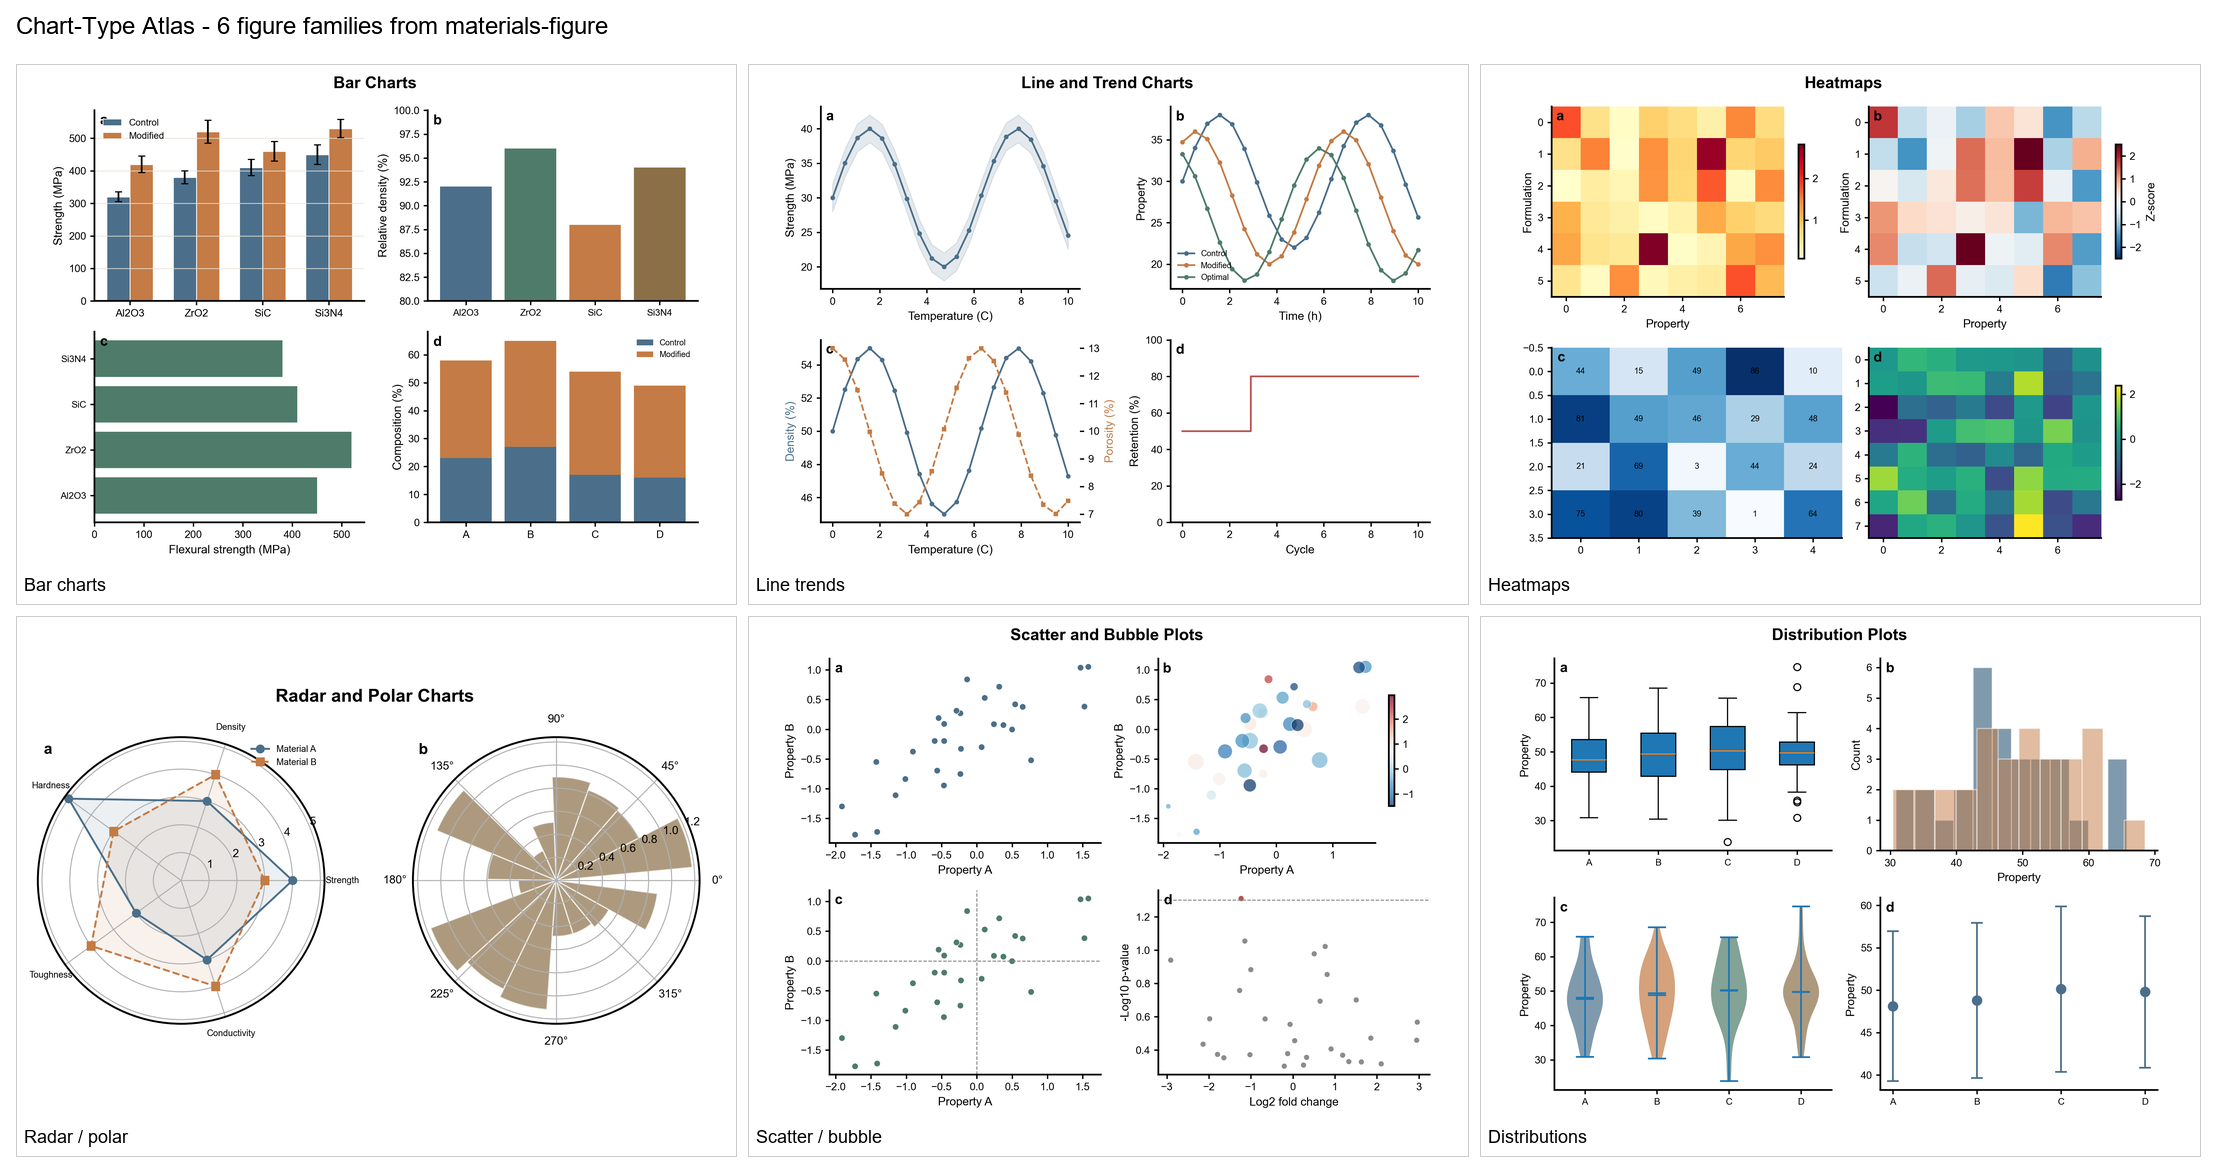
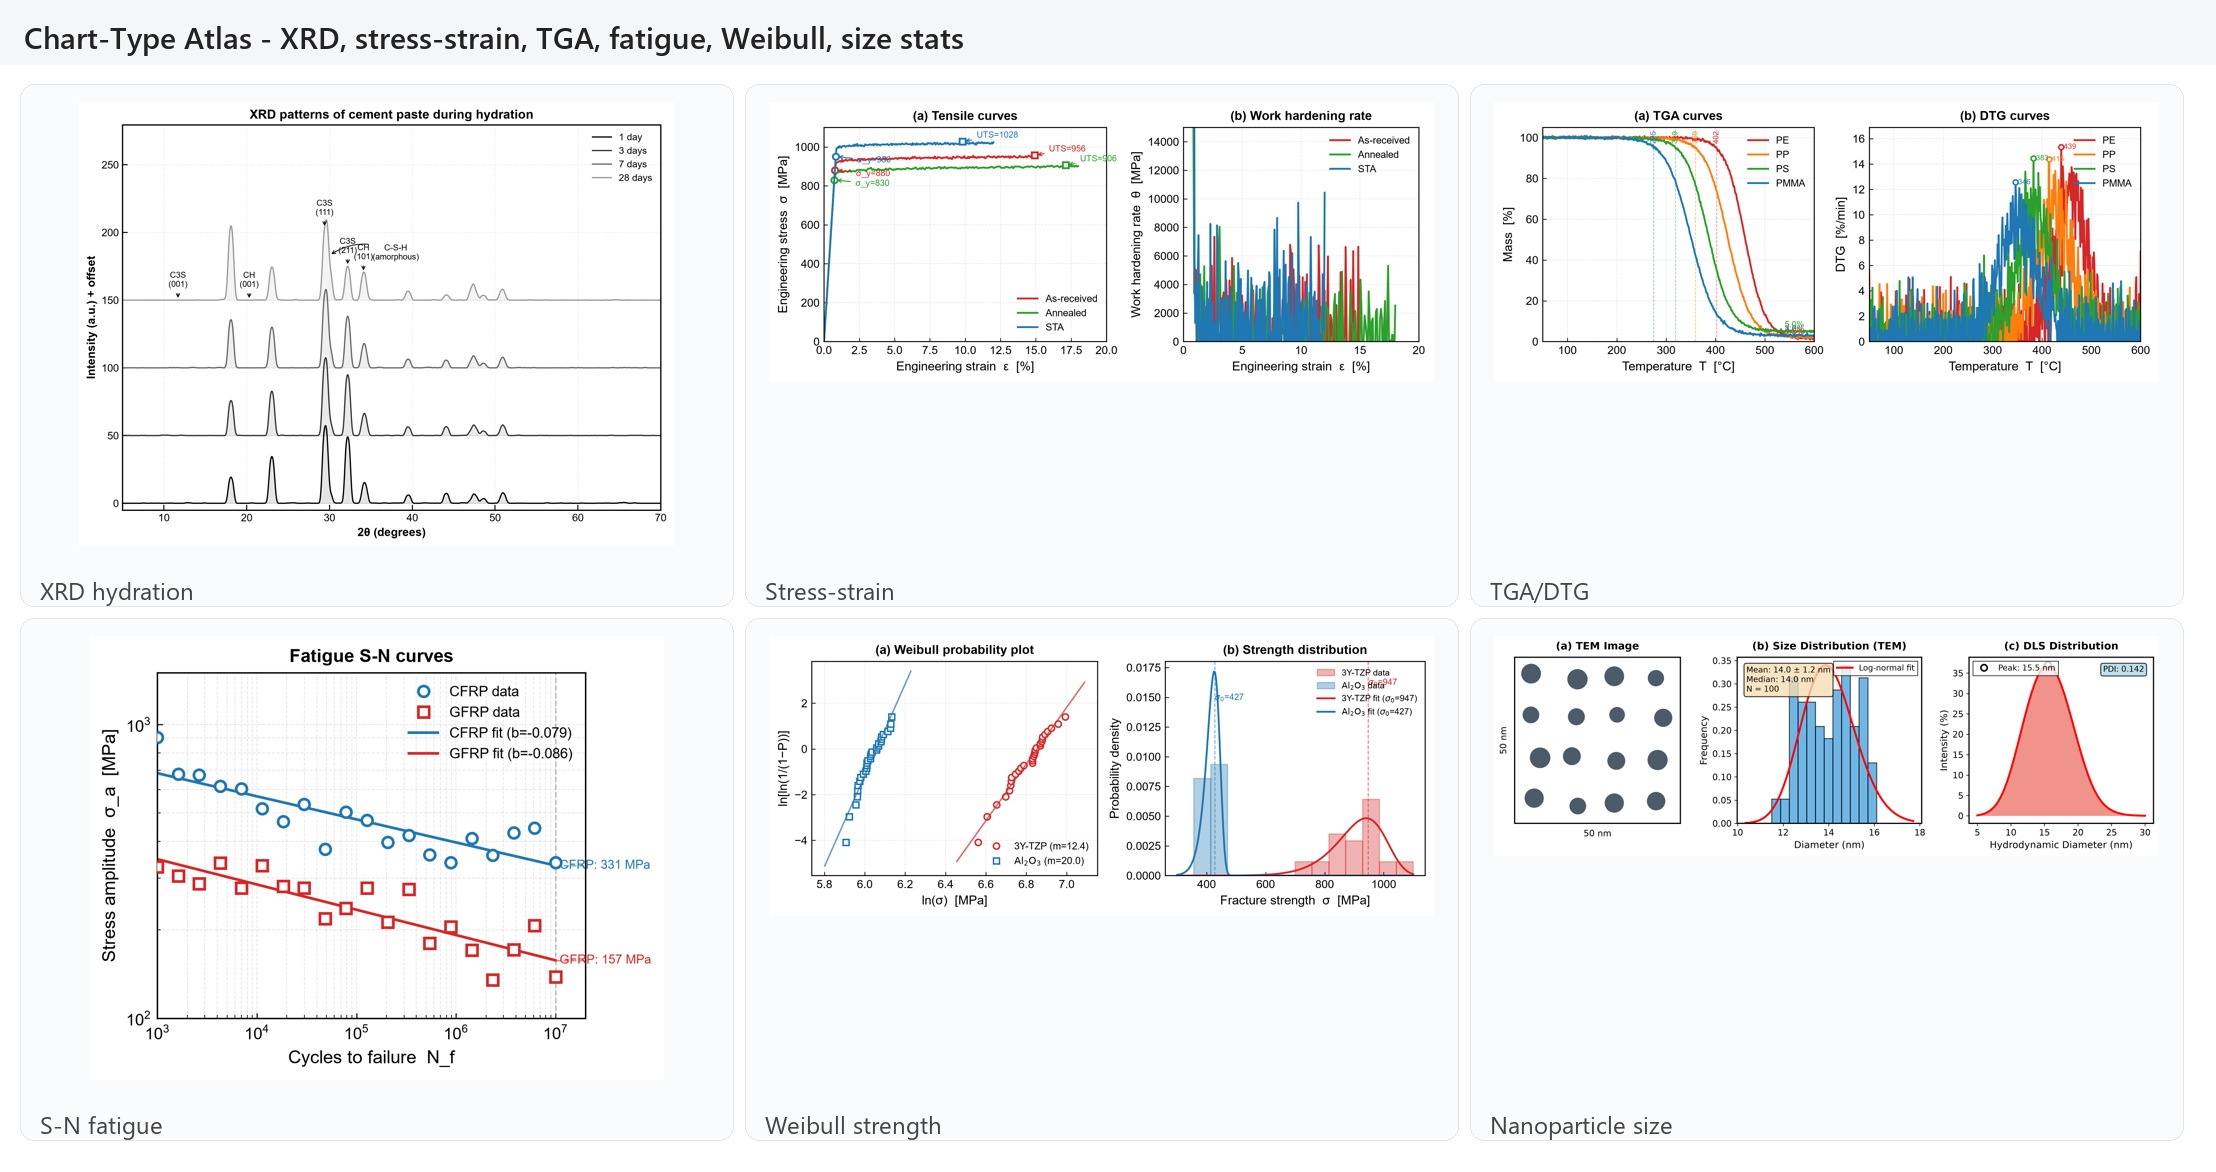
docs: rewrite README, refresh showcases/workflows/skills-index, regenerate gallery boards

diff --git a/README.md b/README.md
@@ -42,13 +42,13 @@ research (router) → reader → citation / literature-pipeline
 | Skill | Status | Purpose | Trigger keywords |
 |---|---|---|---|
 | [`materials-research`](plugins/materials-skills/skills/materials-research/README.md) | Stable | Profile-first router, stage-gated plan, coverage_tier report | "materials research", "topic routing", "workflow plan" |
-| [`materials-reader`](plugins/materials-skills/skills/materials-reader/README.md) | Stable | Source-anchored reader package, evidence-chain matrix | "reader package", "evidence chain", "paper notes" |
+| [`materials-reader`](plugins/materials-skills/skills/materials-reader/README.md) | Stable | Source-anchored reader package, evidence-chain matrix, interactive bilingual HTML reading page | "reader package", "evidence chain", "paper notes", "生成中文版", "全文翻译", "可交互双语网页" |
 | [`materials-citation`](plugins/materials-skills/skills/materials-citation/README.md) | Stable | MCP-backed search, citation matrix, reference-gap audit, reference verification | "citation matrix", "literature screening", "reference gap" |
 | [`materials-literature-pipeline`](plugins/materials-skills/skills/materials-literature-pipeline/README.md) | Beta | Recurring discovery, candidate scoring, source-depth labels, digest handoff | "literature pipeline", "daily digest", "candidate scoring" |
 | [`materials-paper-card`](plugins/materials-skills/skills/materials-paper-card/README.md) | Beta | Source-grounded 16-section deep-reading cards, characterization-chain reading, gated research ideas | "paper card", "deep reading", "深读卡" |
 | [`materials-writing`](plugins/materials-skills/skills/materials-writing/README.md) | Stable | 8-axis stateful manuscript drafting, foundation files, section arcs | "manuscript draft", "review outline", "argument chain" |
 | [`materials-polishing`](plugins/materials-skills/skills/materials-polishing/README.md) | Stable | Claim-strength audit, overclaim reduction, journal-tone tightening | "polish", "claim strength", "academic tone" |
-| [`materials-figure`](plugins/materials-skills/skills/materials-figure/README.md) | Stable | LLM-driven figure contract + plot, representative atlas/gallery samples | "figure", "publication plot", "mechanism map" |
+| [`materials-figure`](plugins/materials-skills/skills/materials-figure/README.md) | Stable | Figure contract + plot; conceptual figures default to R hybrid (AI decoration + R vector), watermark-stripped | "figure", "publication plot", "mechanism map", "机理图", "TOC" |
 | [`materials-data`](plugins/materials-skills/skills/materials-data/README.md) | Stable | FAIR package, 9 domain schemas, data availability statement | "FAIR package", "data availability", "dataset" |
 | [`materials-doe`](plugins/materials-skills/skills/materials-doe/README.md) | Stable | Factorial / Taguchi / mixture matrices, methods paragraph | "DOE", "experiment design", "orthogonal array" |
 | [`materials-statistics`](plugins/materials-skills/skills/materials-statistics/README.md) | Beta | Replicate/n audits, ANOVA/Taguchi/RSM reporting, multiple-comparison fixes, figure-statistics alignment | "statistics review", "p-value", "方差分析", "图注统计" |
@@ -66,11 +66,19 @@ research (router) → reader → citation / literature-pipeline
 - **`materials-figure`** — LLM-driven figure creation: validates a figure
   contract and source-data anchor first, then the LLM writes `plot.py` and
   ships a full package (`figure_contract.md → source_data.csv → plot.py →
-  SVG/PDF/PNG/TIFF → caption.md + qa_report.md`). Python-default backend
-  (R opt-in); a hybrid composition mode that requires a user-provided AI
-  image model (GPT Image 2, nanobanana, …) — AI decorates only, R draws
-  every text/border/arrow/annotation as vector, with a full R/Python
-  fallback (procedural decorations) when no tool is available.
+  SVG/PDF/PNG/TIFF → caption.md + qa_report.md`). Data plots go through the
+  Python-default backend (R opt-in). Conceptual/schematic figures default to
+  **R hybrid composition**: a user-provided AI image model (GPT Image 2,
+  nanobanana, …) generates watermark-free decoration assets only, while R
+  draws every text/border/arrow/annotation as editable vector; a full
+  R/Python fallback (procedural decorations) covers the no-AI-tool case, and
+  a standalone AI draft is produced only on explicit request.
+- **`materials-reader`** — source-grounded deep reading plus a new
+  **interactive bilingual HTML reading page** (1.4.0): for full-paper
+  translation requests it emits a Chinese-first page where every sentence
+  reveals its aligned English source on hover/focus, preserving figures,
+  tables, captions, and section hierarchy — reusing the same source anchors
+  and terminology ledger as the Markdown reader package.
 - **`materials-paper-to-patent`** — 论文转中文发明专利：三轴路由
   （source_format / task_mode / invention_type），内置中国专利法第 22/26.3/
   26.4/31.1/33 条知识库与 7 规则 claim 校验引擎，输出 DOCX 申请稿 +

diff --git a/docs/skills-index.md b/docs/skills-index.md
@@ -54,6 +54,13 @@ defaults for `material_family` and `domain` across all 16 skills.
 - Produces standard reader packages, source-grounded notes, figure/table
   evidence maps, claim-evidence-mechanism-boundary matrices, and handoff rows
   for citation and figure skills. Has its own `evals.json`.
+- **Interactive bilingual HTML reading page** (1.4.0): for full-paper
+  translation requests ("生成中文版", "全文翻译", "可交互双语网页") it emits a
+  Chinese-first page built from `assets/templates/bilingual-reader-template.html`
+  following `references/bilingual-html-reader.md` — sentence-level English-Chinese
+  alignment with hover/focus to reveal the English source, figures/tables/
+  captions/hierarchy preserved. It is an output format of the reader, reusing
+  the same `source_map.json` and terminology ledger, not a separate skill.
 
 ### materials-citation — search, screen, structure
 
@@ -106,13 +113,15 @@ defaults for `material_family` and `domain` across all 16 skills.
 - Pipeline: `figure_contract.md → source_data.csv → LLM writes plot.py →
   figure.svg/pdf/png/tiff → caption.md + qa_report.md + asset_manifest.md`.
 - Key rules: exclusive plotting backend per package (Python default, R
-  opt-in with persisted preference); an OpenRouter/GPT Image 2 AI-schematic
-  route produces provenance-tracked internal drafts (never data panels);
-  a hybrid mode (user-provided AI image model required — GPT Image 2,
-  nanobanana, or self-generated assets) splits layers — AI decoration
-  assets below, all text, borders, arrows, and annotations as R vector
-  above (`asset_manifest.yaml` placement map + text-vector QA); with no
-  AI tool the skill explains and falls back to R/Python-only drawing
+  opt-in with persisted preference) for data plots; **conceptual/schematic
+  figures default to R hybrid composition** (2.6.0) — a user-provided AI
+  image model (GPT Image 2, nanobanana, or self-generated assets) generates
+  watermark-stripped, transparent decoration assets only, while R draws
+  every text, border, arrow, and annotation as editable vector
+  (`asset_manifest.yaml` placement map + text-vector + watermark QA); a
+  standalone AI draft is produced only on explicit request (OpenRouter/GPT
+  Image 2 AI-schematic route, provenance-tracked, never data panels); with
+  no AI tool the skill explains and falls back to R/Python-only drawing
   with procedural decorations; contract written before plotting
   (core conclusion, evidence chain, panel map, target journal,
   statistics/units/scale bars, claim boundary); caption boundaries separate

diff --git a/docs/showcases/bilingual-html-reader.md b/docs/showcases/bilingual-html-reader.md
@@ -1,0 +1,33 @@
+# Bilingual HTML reading page
+
+## Outcome Snapshot
+
+A Chinese-first interactive reading page for a full English paper: every
+Chinese sentence reveals its aligned English source on hover or keyboard
+focus, with figures, tables, captions, and section hierarchy preserved.
+
+## Demo Prompt
+
+```text
+生成这篇英文论文的中文版可交互双语阅读页。
+```
+
+## Proof Assets
+
+- `plugins/materials-skills/skills/materials-reader/assets/templates/bilingual-reader-template.html`
+
+## Build Path
+
+1. `materials-reader` parses the PDF and builds the source map and glossary.
+2. Sentences are aligned one-to-one with stable ids (`s0001`, …).
+3. Each Chinese sentence is wrapped in a `.sentence` span carrying its
+   English source in `data-source`.
+4. The page is composed from `bilingual-reader-template.html`; the tooltip
+   reveals the English source on hover/focus and hides on exit or Esc.
+5. QA verifies no orphan sentence in either direction and intact tables.
+
+## When To Use This Route
+
+Use it for full-paper Chinese reading. It is an output format of
+`materials-reader`, reusing the same `source_map.json` and terminology ledger;
+it does not trigger for abstract-only or partial translation.

diff --git a/docs/showcases/hybrid-mechanism-figure.md b/docs/showcases/hybrid-mechanism-figure.md
@@ -1,0 +1,34 @@
+# Hybrid mechanism figure
+
+## Outcome Snapshot
+
+A publication-grade conceptual/schematic figure produced by the default R
+hybrid route: an AI image model supplies watermark-free decoration assets
+only, while R draws every text, border, arrow, and annotation as editable
+vector.
+
+## Demo Prompt
+
+```text
+Create a mechanism schematic for WER-EA interface bonding using the R hybrid route.
+```
+
+## Proof Assets
+
+- `docs/gallery/gallery_wer_ea_workflow.png`
+
+## Build Path
+
+1. `materials-figure` writes and validates the figure contract first.
+2. R drafts the layout with placeholder rectangles for asset slots.
+3. The AI model generates transparent, watermark-stripped decoration assets
+   (no text/arrows/borders by construction).
+4. R composites the assets below and draws all semantic elements above.
+5. QA checks text-vector selectability, watermark absence, z-order, and
+   palette consistency; the package carries the hybrid disclosure line.
+
+## When To Use This Route
+
+Use it for mechanism maps, interface schematics, graphical abstracts, and TOC
+graphics where editable vector text and a clean watermark story matter. If no
+AI tool is available, fall back to full R/Python procedural decorations.

diff --git a/docs/workflows/paper-to-bilingual-reading.md b/docs/workflows/paper-to-bilingual-reading.md
@@ -1,0 +1,30 @@
+# Paper to Bilingual Reading
+
+Turn an English materials paper into a Chinese-first interactive bilingual
+reading page where every sentence reveals its aligned English source.
+
+## Prompt
+
+```text
+生成这篇英文论文的中文版可交互双语阅读页，保留图表和章节层级。
+```
+
+## Expected Shape
+
+1. `materials-reader` detects `source_format` (pdf-text / scanned-pdf / html)
+   and routes to `references/bilingual-html-reader.md`.
+2. The reader builds `source_map.json` and the terminology ledger first, so
+   the HTML stays tied to the evidence chain.
+3. Sentences are aligned one-to-one with stable ids; headings, captions, and
+   table cells are treated as independent alignment zones.
+4. The page is composed from
+   `assets/templates/bilingual-reader-template.html`; hover or keyboard focus
+   reveals the English source, Esc or pointer-exit hides it.
+5. QA verifies no orphan sentence in either direction and intact figures,
+   tables, and section hierarchy before delivery.
+
+## Boundary
+
+This is an output format of `materials-reader`, not a separate skill. It does
+not trigger for abstract-only or partial translation; those stay in the
+Markdown reader path.

diff --git a/docs/showcases/README.md b/docs/showcases/README.md
@@ -4,9 +4,11 @@
 
 | Showcase | Outcome | Proof path |
 |---|---|---|
-| [Submission package](submission-package.md) | Manuscript support package | `materials-reader` + `materials-writing` + `materials-figure` |
+| [Submission package](submission-package.md) | Manuscript support package | `materials-reader` + `materials-writing` + `materials-figure` + `materials-submission` |
 | [Reviewer response](reviewer-response.md) | Point-by-point rebuttal workflow | `materials-reviewer` + `materials-response` |
 | [FAIR data package](fair-data-package.md) | Dataset organization and availability text | `materials-data` |
+| [Hybrid mechanism figure](hybrid-mechanism-figure.md) | R hybrid conceptual figure, watermark-stripped | `materials-figure` |
+| [Bilingual HTML reading page](bilingual-html-reader.md) | Chinese-first interactive bilingual reader | `materials-reader` |
 
 These pages describe the expected artifact surface for common outcomes. They
 are intentionally compact so they can stay aligned with the skill READMEs.

diff --git a/docs/workflows/README.md b/docs/workflows/README.md
@@ -13,6 +13,7 @@ should appear.
 | [Experimental pipeline](experimental-pipeline.md) | Closed DOE -> record -> data -> figure loop | doe -> data -> figure |
 | [Revision loop](revision-loop.md) | Reviewer comments and rebuttal planning | reviewer -> response -> writing -> polishing |
 | [Paper to presentation](paper-to-presentation.md) | Journal-club outline and HTML deck creation | materials-html-deck |
+| [Paper to bilingual reading](paper-to-bilingual-reading.md) | Chinese-first interactive bilingual HTML reading page | materials-reader |
 | [Ceramics Sintering Manuscript](ceramics-sintering-manuscript.md) | YSZ sintering experiment to JACerS submission pipeline | doe -> data -> citation -> reader -> writing -> figure -> reviewer -> response |
 
 Run `python .\scripts\run_release_checks.py --json` after changing skill or

diff --git a/docs/workflows/wer-ea-mini-review.md b/docs/workflows/wer-ea-mini-review.md
@@ -17,7 +17,11 @@ Help me run a WER-EA mini-review workflow from screening to figure planning.
 2. `materials-citation` builds the search plan and citation matrix.
 3. `materials-reader` maps claims, mechanisms, figures, and source anchors.
 4. `materials-writing` drafts the review arc and evidence gaps.
-5. `materials-figure` plans the dosage-window, durability, and heatmap figures.
+5. `materials-figure` plans the dosage-window, durability, and heatmap figures
+   (data plots via the Python/R backend).
+6. For the interface/mechanism schematic, `materials-figure` uses the default
+   R hybrid route: AI decoration assets (watermark-stripped) below, R vector
+   semantics above.
 
 ## Expected Artifacts
 

diff --git a/docs/workflows/ceramics-sintering-manuscript.md b/docs/workflows/ceramics-sintering-manuscript.md
@@ -29,7 +29,9 @@ peer review with rebuttal.
    introduction, experimental, results, and discussion sections.
 6. `materials-figure` generates sintering trajectory plots, XRD
    Rietveld-refinement patterns, and SEM micrographs with grain-size
-   distributions.
+   distributions (data plots via the Python/R backend); any densification
+   mechanism schematic uses the default R hybrid route (AI decoration assets,
+   R vector semantics).
 7. `materials-reviewer` simulates a JACerS peer review, flagging
    phase-purity concerns, missing impedance spectroscopy, and
    grain-size statistics.

diff --git a/docs/gallery/README.md b/docs/gallery/README.md
@@ -2,7 +2,10 @@
 
 Representative visual samples for the public Materials Science Skills package.
 The gallery is intentionally compact: it shows the figure style and workflow
-surface without shipping the full internal generated image corpus.
+surface without shipping the full internal generated image corpus. Data plots
+are produced by the Python/R backend; conceptual/schematic figures follow the
+default R hybrid route (AI decoration assets + R vector semantics,
+watermark-stripped).
 
 ## Composite Overviews
 
